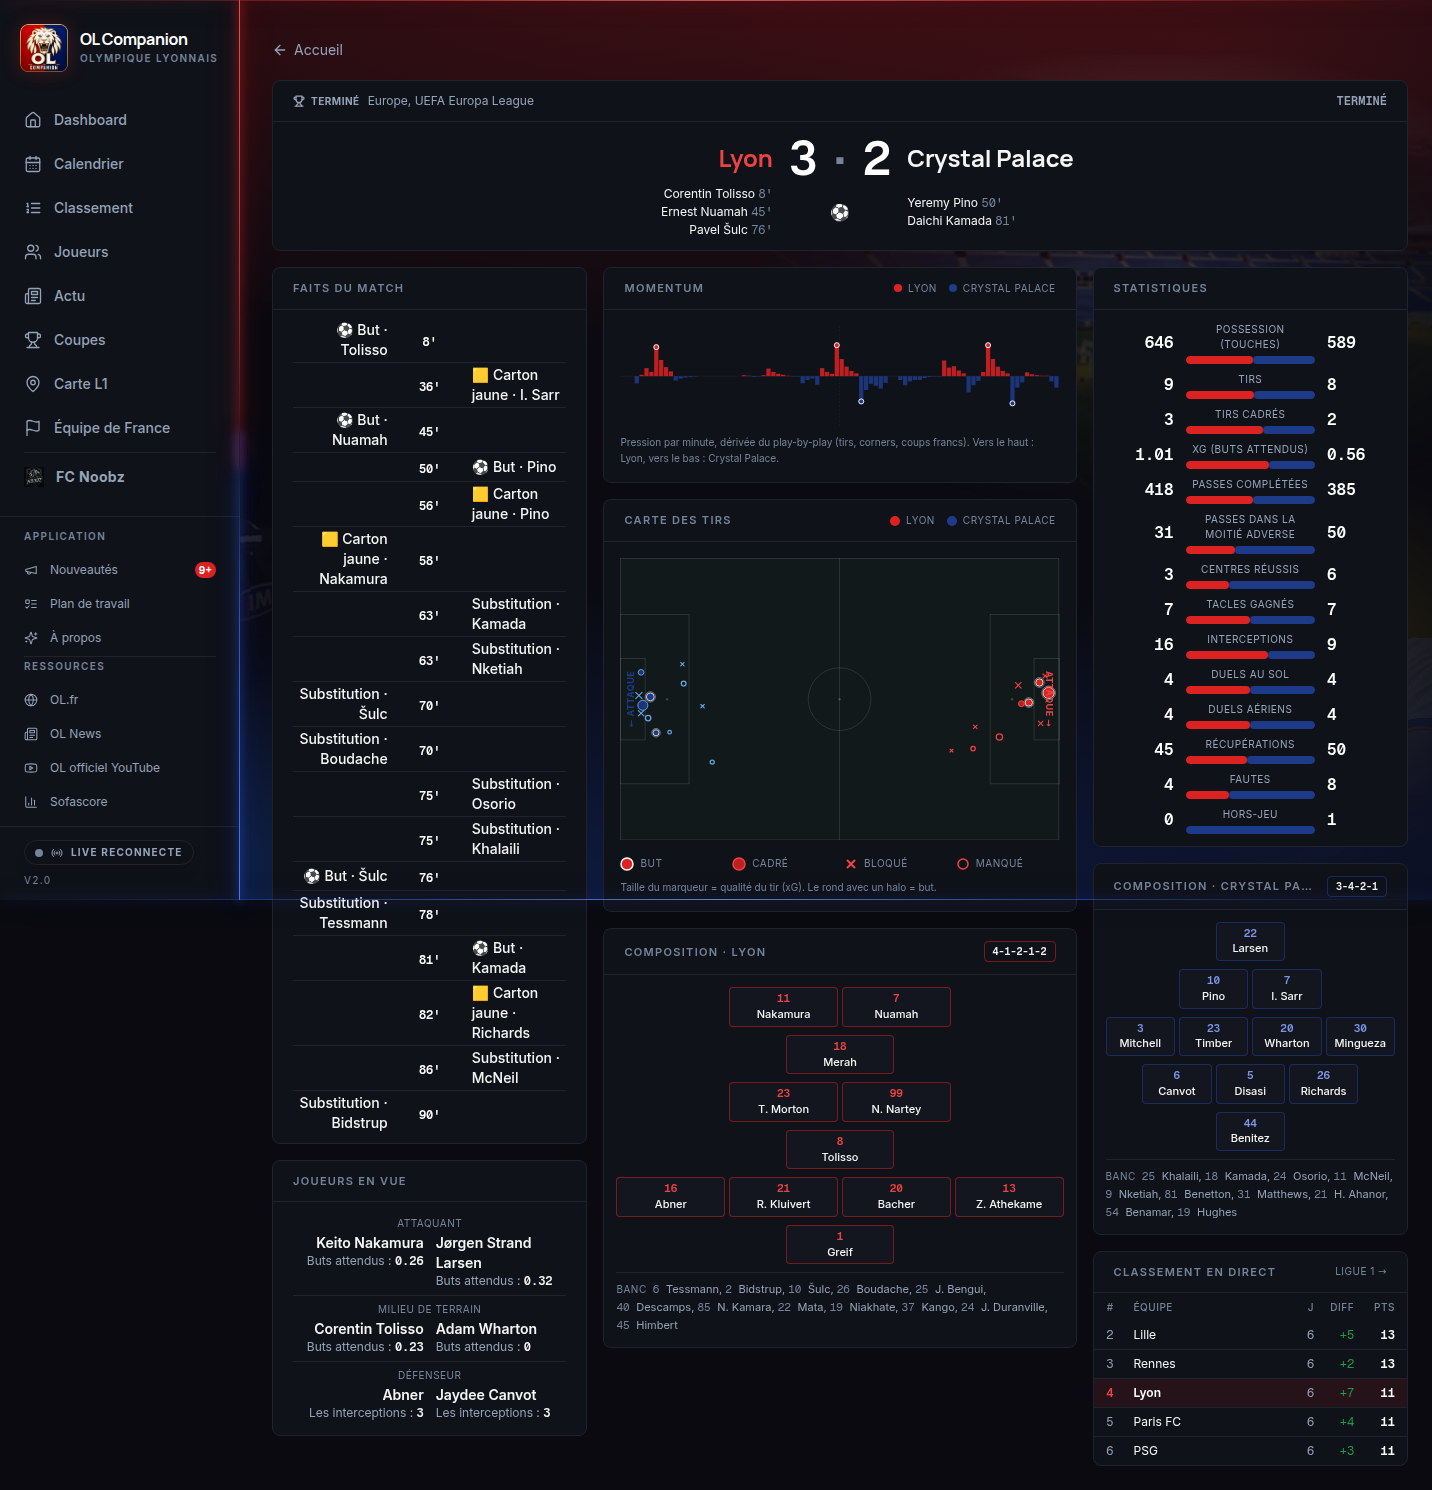
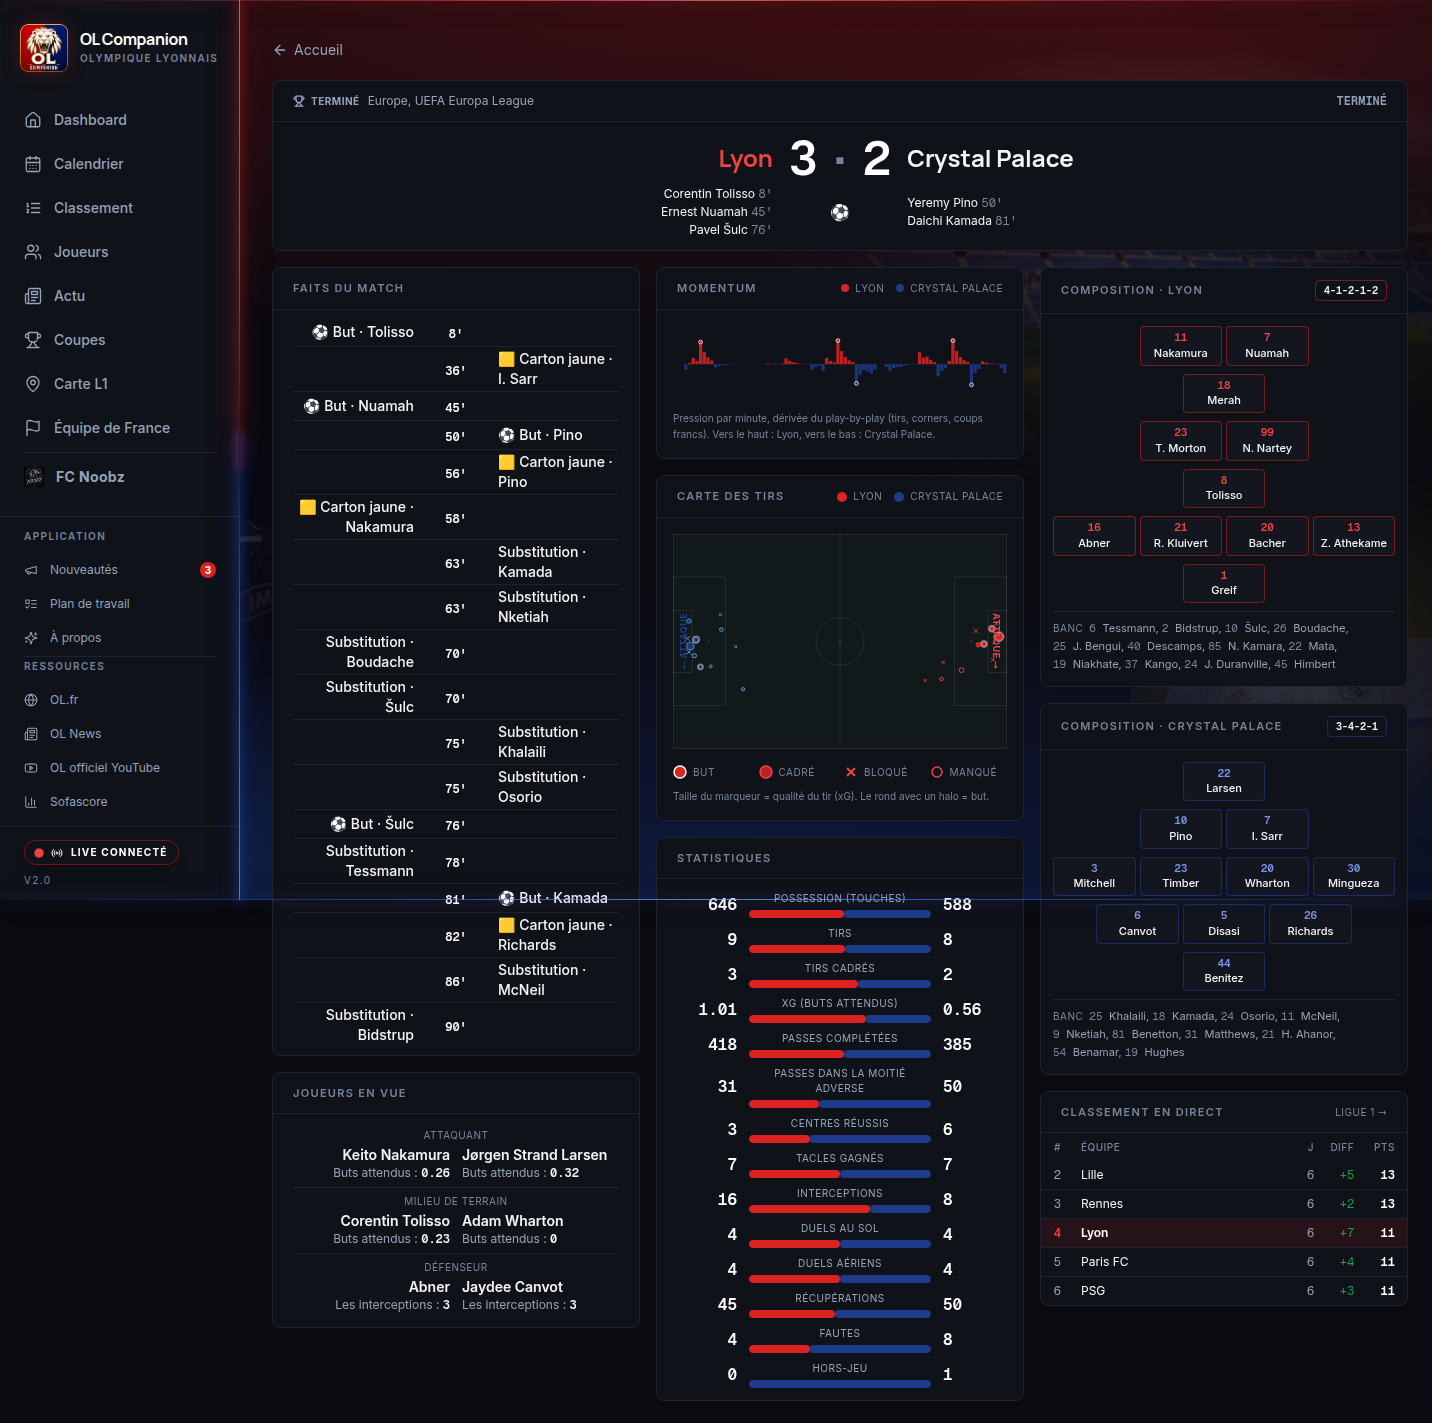
fix(L159): README et Nouveautés alignés sur la répartition calculée, capture refaite (93 px sur Lyon – Crystal Palace)

diff --git a/README.md b/README.md
@@ -44,7 +44,7 @@ En amont du code, [ChatGPT](https://chat.openai.com) a aidé à générer le **l
 
 ### Page match — timeline + shot map + stats équipe + top performers
 
-Les blocs **Composition** (un par équipe : Lyon sous la carte des tirs, l'adversaire sous « Statistiques », puis « Classement en direct ») suivent la formation annoncée (L43) : gardien seul en bas, puis une rangée par nombre de la formation, attaque en haut (4-2-3-1 = 5 rangées de 1, 4, 2, 3, 1 ; 4-1-4-1 = 1, 4, 1, 4, 1). Rangées centrées, pastilles de même largeur (celle de la rangée la plus fournie), numéro au-dessus du nom ; un nom ne se coupe qu'au tiret ou à l'espace, jamais d'ellipse ; sa taille est mesurée (L127) : la plus grande de 11, 10, 9, 8 px dont le mot le plus long tient dans la pastille (`fitNameFont`, relancée quand la pastille change de largeur, y compris à l'élargissement : rotation 390→844 ou fenêtre 320→1440, L130) — à 320 px « Omobamidele » ou « Augustinsson » passent à 9 px ou moins, « Frankowski » à 9 px (le seuil de 10 lettres débordait de 4 px). Banc (L136) : numéro et nom de chaque remplaçant sont insécables (`whitespace-nowrap`), la ligne ne se coupe qu'après la virgule — jamais « Tagliafico, 2 ⏎ Bidstrup ». Numéro adverse en `hsl(226 70% 70%)` (≥ 4,5:1). Formation absente ou ne totalisant pas 10 joueurs de champ : repli par `yardLine` avec la note « Formation inconnue… ». Match à venir (L129) : 365scores met parfois une composition provisoire et des numéros à 0 avant le coup d'envoi ; le backend marque `lineups.<côté>.probable` quand le match n'a pas commencé et que le statut de la composition n'est pas « Confirmé » (le bloc affiche alors « Composition probable »), et un numéro 0 devient `null` (jamais affiché, titulaires comme banc). Numéro manquant (L133) : `LiveMatchService.getStats` reprend alors celui du joueur dans les 5 derniers matchs joués par son club, le plus récent d'abord (`/web/games/results/` puis un `/web/game/` par match, cache 6 h par club, meilleur effort : sans réponse, le joueur reste sans numéro) ; un numéro donné par 365scores n'est jamais remplacé. Page du match à 1440 px (L159) : trois colonnes — faits + joueurs en vue | momentum, carte des tirs, composition de Lyon | statistiques, composition adverse, classement — qui finissent à moins de 150 px l'une de l'autre (mesuré : 121 px sur Lyon – Crystal Palace, 36 faits) ; « Joueurs en vue » écrit le rôle au-dessus de deux colonnes, noms complets (retour à la ligne, jamais d'ellipse) et libellé « Buts attendus : 0.26 » insécable. Test : `frontend/src/routes/match.equilibre-L159.test.tsx`. Tests : `frontend/src/routes/match.composition-L43.test.tsx`, `frontend/src/routes/match.probable-L129.test.tsx` et `backend/src/modules/live-match/live-match.aggregator.spec.ts` (bloc « toLineups — match à venir (L129) »), `live-match.jerseys.spec.ts` et `live-match.service.jerseys.spec.ts` (L133), `frontend/src/components/lineup-card.banc-L136.test.tsx` (L136).
+Les blocs **Composition** (un par équipe : Lyon sous la carte des tirs, l'adversaire sous « Statistiques », puis « Classement en direct ») suivent la formation annoncée (L43) : gardien seul en bas, puis une rangée par nombre de la formation, attaque en haut (4-2-3-1 = 5 rangées de 1, 4, 2, 3, 1 ; 4-1-4-1 = 1, 4, 1, 4, 1). Rangées centrées, pastilles de même largeur (celle de la rangée la plus fournie), numéro au-dessus du nom ; un nom ne se coupe qu'au tiret ou à l'espace, jamais d'ellipse ; sa taille est mesurée (L127) : la plus grande de 11, 10, 9, 8 px dont le mot le plus long tient dans la pastille (`fitNameFont`, relancée quand la pastille change de largeur, y compris à l'élargissement : rotation 390→844 ou fenêtre 320→1440, L130) — à 320 px « Omobamidele » ou « Augustinsson » passent à 9 px ou moins, « Frankowski » à 9 px (le seuil de 10 lettres débordait de 4 px). Banc (L136) : numéro et nom de chaque remplaçant sont insécables (`whitespace-nowrap`), la ligne ne se coupe qu'après la virgule — jamais « Tagliafico, 2 ⏎ Bidstrup ». Numéro adverse en `hsl(226 70% 70%)` (≥ 4,5:1). Formation absente ou ne totalisant pas 10 joueurs de champ : repli par `yardLine` avec la note « Formation inconnue… ». Match à venir (L129) : 365scores met parfois une composition provisoire et des numéros à 0 avant le coup d'envoi ; le backend marque `lineups.<côté>.probable` quand le match n'a pas commencé et que le statut de la composition n'est pas « Confirmé » (le bloc affiche alors « Composition probable »), et un numéro 0 devient `null` (jamais affiché, titulaires comme banc). Numéro manquant (L133) : `LiveMatchService.getStats` reprend alors celui du joueur dans les 5 derniers matchs joués par son club, le plus récent d'abord (`/web/games/results/` puis un `/web/game/` par match, cache 6 h par club, meilleur effort : sans réponse, le joueur reste sans numéro) ; un numéro donné par 365scores n'est jamais remplacé. Page du match à 1440 px (L159) : trois colonnes égales dont les bas finissent à moins de 150 px l'une de l'autre. Disposition par défaut — faits + joueurs en vue | momentum, carte des tirs, composition de Lyon | statistiques, composition adverse, classement — gardée telle quelle tant qu'elle tient la cible ; sinon `balanceColumns` (`frontend/src/lib/balance-columns.ts`) choisit, sur les hauteurs mesurées, la répartition sous 150 px qui déplace le moins de blocs (l'écart minimal si aucune ne tient), donc la disposition varie d'un match à l'autre (capture Nouveautés : 93 px sur Lyon – Crystal Palace). Chaque bloc est rendu par portail dans un conteneur stable : changer de colonne ne le remonte pas et un `ResizeObserver` unique relance l'équilibrage quand un bloc grandit (faits d'un match en direct). « Joueurs en vue » écrit le rôle au-dessus de deux colonnes, noms complets (retour à la ligne, jamais d'ellipse) et libellé « Buts attendus : 0.26 » insécable. Tests : `frontend/src/lib/balance-columns.test.ts`, `frontend/src/routes/match.equilibre-L159.test.tsx` (défaut) et `frontend/src/routes/match.colonnes-large-L159.test.tsx` (matchMedia, mesure, observateur, déplacement). Tests : `frontend/src/routes/match.composition-L43.test.tsx`, `frontend/src/routes/match.probable-L129.test.tsx` et `backend/src/modules/live-match/live-match.aggregator.spec.ts` (bloc « toLineups — match à venir (L129) »), `live-match.jerseys.spec.ts` et `live-match.service.jerseys.spec.ts` (L133), `frontend/src/components/lineup-card.banc-L136.test.tsx` (L136).
 
 La page porte un `h1` masqué visuellement (« Lyon – Nice ») pour les lecteurs d'écran et le contrôle QA (L66).
 

diff --git a/docs/nouveautes/2026-10-15-page-du-match-bas-de-page-reequilibre-et-joueurs-en-vue-lisi.md b/docs/nouveautes/2026-10-15-page-du-match-bas-de-page-reequilibre-et-joueurs-en-vue-lisi.md
@@ -3,8 +3,8 @@ title: "Page du match : bas de page rééquilibré et joueurs en vue lisibles"
 date: 2026-10-15
 created: 2026-10-15T21:41+02:00
 lots: [L159]
-captures: [{ file: captures/match-equilibre-1440.png, alt: "Page d'un match à 1440 px : les trois colonnes se terminent à la même hauteur, noms des joueurs en vue entiers" }]
+captures: [{ file: captures/match-equilibre-1440.png, alt: "Page d'un match à 1440 px : les trois colonnes se terminent à moins de 150 px l'une de l'autre" }]
 # une capture peut dire ce qu'elle montre : captures: [{ file: captures/x.png, alt: "texte alternatif" }]
 # nocapture: raison, quand une capture n'a pas de sens
 ---
-Sur grand écran, les trois colonnes de la page du match se terminent maintenant presque à la même hauteur : la composition de Lyon passe sous la carte des tirs et le classement en direct sous la composition adverse, au lieu de tout empiler à gauche. Dans « Joueurs en vue », les noms s'affichent en entier (« Jørgen Strand Larsen » au lieu de « Jørgen Stra… ») et chaque libellé, comme « Buts attendus : 0.26 », tient sur une seule ligne.
+Sur grand écran, les trois colonnes de la page du match se terminent maintenant à moins de 150 px l'une de l'autre. Les blocs sont mesurés : s'ils tiennent déjà cet écart dans leur disposition habituelle, rien ne bouge d'un match à l'autre ; sinon le moins de blocs possible change de colonne, et la page se rééquilibre toute seule quand un bloc grandit (les faits d'un match en direct, par exemple). Dans « Joueurs en vue », les noms s'affichent en entier (« Jørgen Strand Larsen » au lieu de « Jørgen Stra… ») et chaque libellé, comme « Buts attendus : 0.26 », tient sur une seule ligne.
